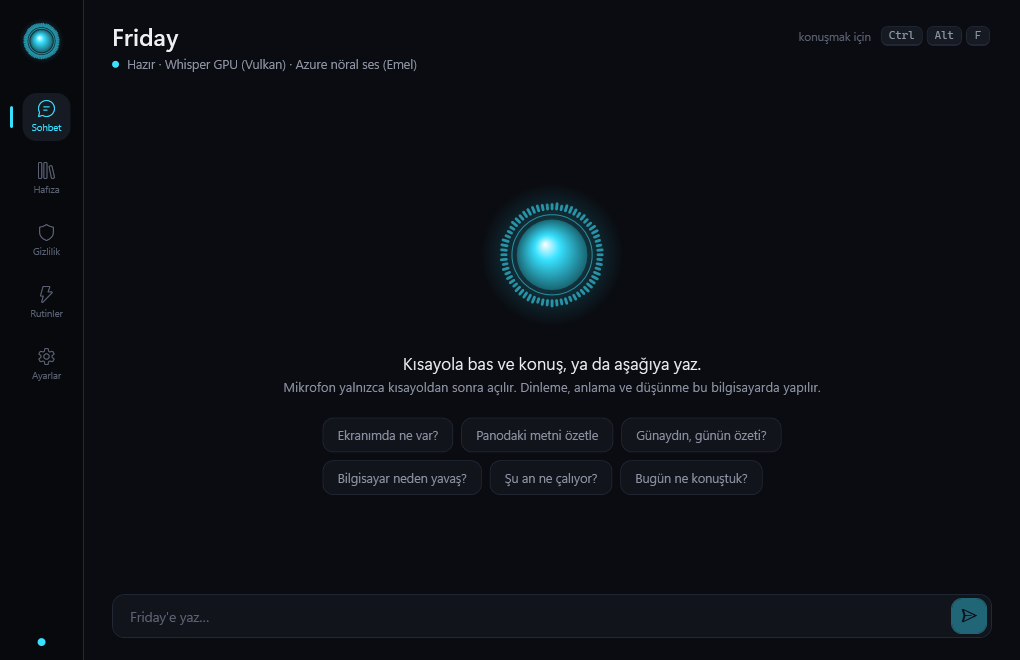
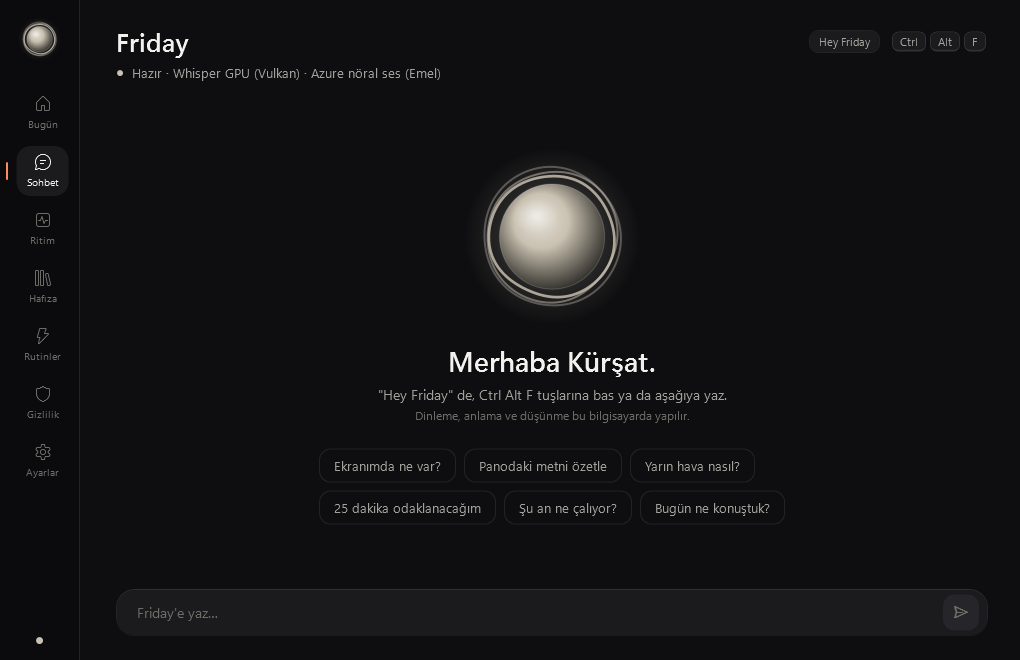
Document the new features and add a release script

diff --git a/README.md b/README.md
@@ -1,6 +1,6 @@
 # Friday
 
-Friday, Windows için Türkçe konuşan kişisel bir sesli asistan. **"Hey Jarvis"** deyince ya da kısayola basınca dinlemeye başlar, sen susunca durur. Uyandırma kelimesi, konuşma tanıma, anlama, düşünme ve konuşma tamamen bilgisayarında çalışır; API anahtarı, abonelik ya da internet gerekmez. Boşta beklerken toplam ~60 MB RAM ve tek çekirdeğin ~%2'sini kullanır.
+Friday, Windows için Türkçe konuşan kişisel bir sesli asistan. **"Hey Friday"** deyince ya da kısayola basınca dinlemeye başlar, sen susunca durur. Uyandırma kelimesi, konuşma tanıma, anlama, düşünme ve konuşma tamamen bilgisayarında çalışır; API anahtarı, abonelik ya da internet gerekmez. Boşta beklerken toplam ~60 MB RAM ve tek çekirdeğin ~%2'sini kullanır.
 
 ![Friday konuşurken](docs/images/hud-speaking.png)
 
@@ -8,7 +8,12 @@ Friday, Windows için Türkçe konuşan kişisel bir sesli asistan. **"Hey Jarvi
 
 | | |
 |---|---|
-| **"Hey Jarvis"** | Elin klavyede değilken seslenmen yeterli. Kelime [openWakeWord](https://github.com/dscripka/openWakeWord) ile bilgisayarında, işlemcide aranır; ses kaydedilmez. Ayarlardan kapatılır. |
+| **"Hey Friday"** | Elin klavyede değilken seslenmen yeterli. Model Friday için bu bilgisayarda eğitildi ve işlemcide çalışır; ses kaydedilmez. Türkçe aksanla ("Hey Fraydey") da tanır. Ayarlardan kapatılır. |
+| **Bugün ekranı** | Panel açılınca günün saatine göre selam, hava, yaklaşan hatırlatmalar ve tarihler, son notlar ve ritim özeti. İlk açılışta kısa bir tanışma: adın, şehrin, istersen başka bir yapay zekânın hafızası. |
+| **Hatırlatıcı** | "Yarın 9'da doktoru hatırlat", "akşam 8'de ilacımı hatırlat", "pazartesi 10:30'da toplantıyı hatırlat". Friday kapansa da kaybolmaz; kapalıyken kaçırılanları açılışta söyler. "Hatırlatmalarım neler?", "doktor hatırlatmasını iptal et". |
+| **Sesli notlar** | "Not al: süt ve ekmek", "notlarımı oku". Notlar D:\Friday\data\notes.md'de, Not Defteri'yle de açılır. |
+| **Hesap ve birimler** | "345 çarpı 12 kaç", "200'ün yüzde 18'i", "5 mil kaç kilometre", "30 derece kaç fahrenheit". Dil modeline gitmez, yanılmaz. |
+| **Gün sayacı** | "Yılbaşına kaç gün kaldı", "29 Ekim'e kaç gün var", "doğum günüme kaç gün kaldı" (hafızadan bulur). |
 | **Ekranını görür** | "Bu hata ne?", "Ekranımda ne var?" deyince aktif pencerenin görüntüsünü alır ve Gemma 4'ün görme yeteneğiyle bilgisayarında yorumlar. Görüntü diske yazılmaz. |
 | **Pano büyüsü** | Bir metni kopyala, "özetle", "İngilizceye çevir", "yazımını düzelt" ya da "resmileştir" de. Sonuç panoya geri konur; Ctrl+V ile yapıştırırsın. |
 | **Ritim koçu** | Kaç dakikadır aralıksız çalıştığını bilir; yazarken değil bir duraksamada, tam ekran oyun ya da film açık değilken mola önerir. Her seferinde başka bir öneri gelir: 20 saniye sayarak göz molası, rehberli esneme, su (içtiklerini sayar), uzun oturumda yürüyüş, gece geç saatte günü kapatma. "Nefes egzersizi" deyince seni sesli yönlendirir, "25 dakika odaklanacağım" deyince odak oturumu açar. |
@@ -18,13 +23,13 @@ Friday, Windows için Türkçe konuşan kişisel bir sesli asistan. **"Hey Jarvi
 | **Hafızanı taşı** | ChatGPT'nin, Claude'un ya da Gemini'nin hafıza listesini .txt, .md ya da .json olarak içe aktar (ya da yapıştır); önizlemede seç, Friday zaten bildiklerini işaretler. Tersine, Friday'in hafızasını tek tıkla başka bir yapay zekâya yapıştırılacak bir mesaja ya da Markdown dosyasına çevir. |
 | **Dosya radarı** | "Dün indirdiğim PDF'i bul", "içinde fatura geçen Excel'i aç". Windows Arama dizinini kullanır. |
 | **Gizlilik defteri** | Mikrofonun ne zaman ve ne kadar açık kaldığı, neyin bilgisayarda kaldığı ve neyin dışarı çıktığı zaman çizelgesinde görünür. "Seni dinlemiyorum" iddiası denetlenebilir. |
-| **Rutinler** | "Çalışma modunu aç" deyince uygulamalar ve siteler açılır. "Günaydın" deyince tarih, hava, zamanlayıcılar ve yaklaşan hatırlatmalar okunur. |
+| **Rutinler** | "Çalışma modunu aç" deyince uygulamalar ve siteler açılır. "Günaydın" deyince tarih, hava ve yaklaşan hatırlatmalar okunur. "Toplantı modu" 45 dakikalık odak açar, "iyi geceler" günün özetini söyler. |
 | **"Bilgisayar neden yavaş?"** | İşlemci, bellek, disk ve ekran kartını ölçer; en çok kaynak yiyen uygulamaları söyler. |
-| **"Şu an ne çalıyor?"** | Spotify ya da tarayıcıdaki YouTube'da çalan şarkıyı Windows'tan okur; müziği durdurur ya da geçer. |
+| **"Şu an ne çalıyor?"** | Spotify ya da tarayıcıdaki YouTube'da çalan şarkıyı Windows'tan okur; müziği durdurur ya da geçer. "Sesi yüzde 30 yap" ile sesi tam ayarlar. |
 | **"Bugün ne konuştuk?"** | Günlük sohbet geçmişini bilgisayarında tutar ve özetler. |
 | **LinguaFlow bağlantısı** | "Bu videoyu çevir" deyince [LinguaFlow](https://github.com/kursatcnk/LinguaFlow) açılır ve canlı çeviri başlar. |
 | **Devam sorusu** | Cevaptan sonra mikrofon 4 sn daha açık kalır; tuşa basmadan "peki yarın?" diye sorabilirsin. Ayarlardan kapatılır. |
-| **Kesme** | Friday konuşurken kısayola basarsan ya da "Hey Jarvis" dersen susar ve seni dinlemeye başlar. |
+| **Kesme** | Friday konuşurken kısayola basarsan ya da "Hey Friday" dersen susar ve seni dinlemeye başlar. |
 | **Yazarak sorma** | Konuşamadığın yerde panelden yazabilirsin. |
 
 Tehlikeli işler bilerek yok: Friday dosya silemez, bilgisayarı kapatamaz, komut çalıştıramaz.
@@ -32,7 +37,7 @@ Tehlikeli işler bilerek yok: Friday dosya silemez, bilgisayarı kapatamaz, komu
 ## Nasıl çalışır?
 
 ```
-"Hey Jarvis"
+"Hey Friday"
 ya da Ctrl+Alt+F ─►  modeller uyuyorsa yüklenmeye başlar (sen konuşurken biter)
                      mikrofon AÇILIR · bip · kapsül belirir
                      │  16 kHz mono ses, yalnızca bellekte
@@ -43,7 +48,7 @@ ya da Ctrl+Alt+F ─►  modeller uyuyorsa yüklenmeye başlar (sen konuşurken 
                 Whisper Large v3 Turbo, GPU (Vulkan)          → "yarın ankara'da hava nasıl"
                      │
                      ▼
-                Gemma 4 (Ollama, yerel) + 18 araç             → hava_durumu(sehir: "Ankara")
+                Gemma 4 (Ollama, yerel) + 29 araç             → hava_durumu(sehir: "Ankara")
                      │   ▲                                       │
                      │   └──── araç sonucu ◄─────────────────────┘
                      ▼
@@ -60,26 +65,33 @@ Her sesli asistan dört parçadan oluşur:
 
 | Parça | Görevi | Friday'de |
 |---|---|---|
-| **Tetikleme** | Ne zaman dinleyeceğini bilmek | "Hey Jarvis" ([openWakeWord](https://github.com/dscripka/openWakeWord), ONNX Runtime, işlemci) ya da genel kısayol (`RegisterHotKey`) |
+| **Tetikleme** | Ne zaman dinleyeceğini bilmek | "Hey Friday" (Friday için eğitilmiş model, [openWakeWord](https://github.com/dscripka/openWakeWord) özellikleri, ONNX Runtime, işlemci) ya da genel kısayol (`RegisterHotKey`) |
 | **Kulak (STT)** | Sesi yazıya çevirmek | [Whisper.net](https://github.com/sandrohanea/whisper.net), Large v3 Turbo, GPU'da ~0,3 sn |
 | **Beyin (LLM)** | Anlamak ve iş yapmak | [Ollama](https://ollama.com) + Gemma 4 E4B, araç çağırma (tool calling) |
 | **Ses (TTS)** | Cevabı okumak | [Piper](https://github.com/rhasspy/piper) + [Türkçe ses](https://huggingface.co/99eren99/piper-turkish-tts), işlemcide anında · isteğe bağlı XTTS v2 ya da Azure |
 
-### "Hey Jarvis" nasıl çalışıyor?
+### "Hey Friday" nasıl çalışıyor?
 
-Uyandırma kelimesi, mikrofonun **her an açık** olmasını gerektirir; bu yüzden Windows'un mikrofon simgesi görünür. Ses 80 ms'lik parçalar halinde yalnızca bellekte işlenip hemen atılır, diske yazılmaz, hiçbir yere gönderilmez. Üç küçük model (toplam 3,6 MB) zinciri her parçayı puanlar: mel spektrogram → konuşma gömmesi → "hey jarvis" sınıflandırıcı.
+Uyandırma kelimesi, mikrofonun **her an açık** olmasını gerektirir; bu yüzden Windows'un mikrofon simgesi görünür. Ses 80 ms'lik parçalar halinde yalnızca bellekte işlenip hemen atılır, diske yazılmaz, hiçbir yere gönderilmez. Üç küçük model zinciri her parçayı puanlar: mel spektrogram → konuşma gömmesi (openWakeWord) → Friday'in kendi "hey friday" sınıflandırıcısı.
 
-- **Yanlış uyanmaya karşı.** Gerçek "Hey Jarvis" art arda 2–9 parça boyunca yüksek puan alır; benzer sesli cümlelerin çoğu tek parçada kalır. Friday iki parça şartı arar (gecikmeye 80 ms ekler).
+- **Yanlış uyanmaya karşı.** Gerçek "Hey Friday" art arda 2–9 parça boyunca yüksek puan alır; benzer sesli cümlelerin çoğu tek parçada kalır. Friday iki parça şartı arar (gecikmeye 80 ms ekler).
 - **Sessizlikte bedava.** Oda 1,3 sn'den uzun sessizse modeller hiç çalışmaz; arabellekler sessizliğin önceden hesaplanmış karşılığıyla kaydırılır. Ses gelince ilk parçada tam işlemeye dönülür.
 - **Ölçüm.** Konuşma varken 80 ms'lik parça başına ~0,7–1,1 ms işlemci; boşta Friday'in tamamı tek çekirdeğin ~%1,8'i.
-- **Türkçe aksan.** "Hey Carvis" gibi söylemek yeterli. Türkçe J ile ("jurnal"daki gibi) söylenirse tanımaz.
 - **Kapatmak için** `WakeWord` ayarını boş bırak; mikrofon o zaman yalnızca kısayoldan sonra açılır ve simge de görünmez. Mikrofon bir soru için açıkken kapsülde kırmızı **"Mikrofon açık"** göstergesi yanar; her açılış gizlilik defterine yazılır.
 
-Hazır "hey jarvis" modeli openWakeWord projesine aittir ve ticari olmayan kullanım lisanslıdır (CC BY-NC-SA 4.0).
+**Friday için eğitildi.** Hazır bir "Hey Friday" modeli yok; `training\train-wakeword.ps1` onu bu bilgisayarda, tamamen D:\Friday\training altında eğitir (RTX 5070 Ti'de ~1 saat, ~330 MB indirme):
+
+- **Olumlu örnekler:** Piper'ın çok konuşmacılı İngilizce sesleri (1.013 farklı konuşmacı) "Hey Friday" der; Türkçe Piper sesleri "Hey Fraydey" der. Her kayıt oda yankısı, mikrofon bant genişliği, gürültü, uğultu ve arka plan konuşmasıyla bozulur.
+- **Olumsuz örnekler:** benzer sesler ("hey Fred", "it's Friday", "Hey Ferhat", "Cuma günü"…), binlerce Türkçe ve İngilizce cümle, saf gürültü ve openWakeWord'ün gerçek ses doğrulama verisinin %70'i. "Hey Fri…" gibi yarım kalan kelime de olumsuz sayılır.
+- **Ölçüm** (eğitimde hiç kullanılmamış konuşmacılar ve 3,2 saatlik gerçek ses, iki parça şartıyla): eşik 0.50'te **yakalama %96**, **saatte 0,31 yanlış uyanma**.
+- **Gerçekçi sınama** (eğitimde hiç duyulmamış Windows sesleri, Friday'in kendi çalışma hattında): bitişik söylenen "Hey Friday"lerin ve Türkçe aksanlı "Hey Fraydey"lerin hepsi yakalandı. "See you on Friday", "Thank god it's Friday", "Hey Jarvis", "Hey Ferhat", "Cuma günü" gibi tuzak cümlelerin hiçbiri normal seste uyandırmadı; çok kısık seste "Hey Fred" bir kez uyandırdı. "Hey, … Friday" diye araya uzun bir duraklama konunca kaçırabilir; bitişik söylemek yeterli.
+- **İlk sürümden ders:** ilk model "see you on Friday"da da uyanıyordu ("Friday"i tek başına yeterli sanmıştı). Yüzlerce "Friday" bağlamı ve "Hey Fred/Frida/Frank…" gibi tuzaklar iki kat ağırlıkla eklenip ezber dropout'la azaltılınca düzeldi.
+
+Sınıflandırıcı openWakeWord'ün özellik çıkarıcılarıyla (Apache 2.0) çalışır; eğitimde kullanılan doğrulama verisi ticari olmayan kullanım lisanslı olduğundan model de kişisel kullanım içindir.
 
 ### Araç çağırma (beyin nasıl iş yapıyor?)
 
-Dil modeline 18 aracın listesi JSON şeması olarak verilir. "Not defterini aç" duyunca metin yerine `uygulama_ac(ad: "not defteri")` üretir; Friday aracı çalıştırır, sonucu modele verir, model "Açtım." der. Gemma 4, düşünme adımı kapalıyken aracı çağırmak yerine "aracı kullanacağım" diye anlatıyor. Bu yüzden kısa bir düşünme adımı açık; kısa sorulara ~0,5 sn ekliyor ve düşünce metni seslendirilmiyor.
+Dil modeline 29 aracın listesi JSON şeması olarak verilir. "Not defterini aç" duyunca metin yerine `uygulama_ac(ad: "not defteri")` üretir; Friday aracı çalıştırır, sonucu modele verir, model "Açtım." der. Gemma 4, düşünme adımı kapalıyken aracı çağırmak yerine "aracı kullanacağım" diye anlatıyor. Bu yüzden kısa bir düşünme adımı açık; kısa sorulara ~0,5 sn ekliyor ve düşünce metni seslendirilmiyor.
 
 ## Hız
 
@@ -96,6 +108,7 @@ Günlük komutların çoğu kalıptır ve dil modeline hiç gitmez: saat ve tari
 | "Bugün hava nasıl?" | 4,1 sn | 0,1 sn |
 | "Dolar kaç lira?" | 9 sn'ye kadar | 0,2–0,5 sn |
 | "Bana kısa bir espri yap." | 2,3 sn | 0,3 sn (model hazırken) |
+| "Yarın 9'da doktoru hatırlat" · "345 çarpı 12" · "yılbaşına kaç gün kaldı" | modele gidiyordu | 0,0–0,1 sn |
 
 ## Bellek ve ekran kartı
 
@@ -106,7 +119,7 @@ Friday boşta **toplam ~60 MB RAM ve 0 GB VRAM**, konuşurken ~3,5 GB RAM ve ~4 
 - **Halka animasyonu** panel öndeyken saniyede 15 kare nefes alır, arka plandayken hiç çizilmez.
 
 - **Görme modülü ayrı.** Sohbet, Gemma 4'ün görme modülü olmayan varyantıyla (`friday-text`) yapılır: 4,7 GB yerine 3,5 GB. Aynı model dosyasını paylaşır, diskte ek yer kaplamaz ve ilk açılışta otomatik oluşturulur. Görme modülü yalnızca "ekrana bak" denince yüklenir ve iş bitince boşaltılır.
-- **Ön ısıtma.** "Hey Jarvis" duyulunca ya da kısayola basınca modeller hemen yüklenmeye başlar. Yükleme (~3 sn) sen konuşurken biter, bu yüzden uyandırma neredeyse hissedilmez.
+- **Ön ısıtma.** "Hey Friday" duyulunca ya da kısayola basınca modeller hemen yüklenmeye başlar. Yükleme (~3 sn) sen konuşurken biter, bu yüzden uyandırma neredeyse hissedilmez.
 - **Ses GPU kullanmaz.** Piper işlemcide çalışır (bir cümle ~0,03 sn).
 - **Talimat önbelleği korunur.** Sistem talimatında saat değil yalnızca tarih var; böylece Ollama ~2.000 belirteçlik talimatı her soruda yeniden işlemez.
 
@@ -136,10 +149,14 @@ Yabancı adlar Türkçe sesle yanlış okunmasın diye seslendirmeden önce okun
 
 ## Kurulum
 
+**Hazır sürüm:** [Releases](https://github.com/kursatcnk/Friday/releases) sayfasından `Friday-…-win-x64.zip`'i indir, D: sürücüsünde bir klasöre aç, `setup.ps1`'i çalıştır, sonra `app\Friday.exe`'yi aç. .NET kurmana gerek yok.
+
+**Kaynaktan:**
+
 Gereksinimler: Windows 10/11 x64, [.NET 10 SDK](https://dotnet.microsoft.com/download/dotnet/10.0), en az 8 GB VRAM'li bir GPU önerilir (RTX 3070'te test edildi).
 
 ```powershell
-.\setup.ps1   # Ollama, Piper, Türkçe ses, "Hey Jarvis" ve Gemma 4'ü D:\Friday altına indirir (~7 GB, tek seferlik)
+.\setup.ps1   # Ollama, Piper, Türkçe ses, "Hey Friday" ve Gemma 4'ü D:\Friday altına indirir (~7 GB, tek seferlik)
 .\build.ps1   # derleme + testler
 .\run.ps1     # Friday'i başlatır
 
@@ -151,7 +168,7 @@ Gereksinimler: Windows 10/11 x64, [.NET 10 SDK](https://dotnet.microsoft.com/dow
 | Klasör | İçerik |
 |---|---|
 | `D:\Friday\tools` | Ollama ve Piper (taşınabilir) |
-| `D:\Friday\models` | Gemma 4 (~6 GB), Türkçe Piper sesi, "Hey Jarvis" modelleri (`wakeword\`) |
+| `D:\Friday\models` | Gemma 4 (~6 GB), Türkçe Piper sesi, "Hey Friday" modelleri (`wakeword\`) |
 | `D:\LinguaFlowModels` | Whisper, LinguaFlow ile paylaşılır (yoksa `D:\Friday\models\whisper`) |
 | `D:\Friday\data` | `settings.json`, `memory.json`, gizlilik defteri (`ledger\`), sohbet geçmişi (`history\`), hata günlüğü (`logs\`, 14 gün) |
 | `D:\CodexCache\Friday` | .NET SDK ev klasörü, NuGet paketleri, NuGet indirme önbelleği ve derlemenin geçici dosyaları |
@@ -159,11 +176,12 @@ Gereksinimler: Windows 10/11 x64, [.NET 10 SDK](https://dotnet.microsoft.com/dow
 ## Kullanım
 
 1. `.\run.ps1` ile başlat; ~8 sn sonra durum **Hazır** olur.
-2. **"Hey Jarvis"** de ya da **Ctrl+Alt+F**'e bas, bipten sonra konuş ve sus. Bu kısayol başka bir uygulamadaysa Friday sırayla Ctrl+Alt+J, Ctrl+Shift+Space ve Win+Shift+F'yi dener ve hangisini kullandığını panelin sağ üstünde gösterir.
+2. **"Hey Friday"** de ya da **Ctrl+Alt+F**'e bas, bipten sonra konuş ve sus. Bu kısayol başka bir uygulamadaysa Friday sırayla Ctrl+Alt+J, Ctrl+Shift+Space ve Win+Shift+F'yi dener ve hangisini kullandığını panelin sağ üstünde gösterir.
 3. Ekranın altında cam bir kapsül belirir. Halkanın rengi durumu gösterir: **kırmızı** dinliyor, **mor** düşünüyor, **yeşil** konuşuyor. Kapsül tıklamaları geçirir, odağı çalmaz ve ekran görüntülerine girmez.
 4. Pencereyi kapatınca (ya da tepsi simgesi → **Çıkış**) Friday tamamen kapanır: başlattığı Ollama, llama-server, Piper ve XTTS süreçleri kapatılır, kapanmayan varsa 5 sn içinde zorla sonlandırılır, D:\Friday\tools altından çalışan sahipsiz bir süreç kalmışsa o da kapatılır ve Friday'in kendi süreci kesin olarak biter; RAM ve VRAM'in tamamı geri döner. Friday Görev Yöneticisi'nden sonlandırılsa ya da çökse bile bu süreçler açık kalmaz, bir sonraki açılışta da önceki oturumdan kalan bir şey varsa temizlenir. Kısayolun çalışmaya devam etmesi için pencereyi kapatma, simge durumuna küçült. Friday zaten açıkken yeniden başlatırsan ikinci bir kopya açılmaz; çalışan Friday'in paneli öne gelir.
 5. Beklenmeyen bir hata Friday'i kapatmaz; ayrıntısı `D:\Friday\data\logs` altındaki günlüğe yazılır. Ollama kapanırsa bir sonraki soruda kendiliğinden yeniden başlatılır.
 
+![Bugün](docs/images/panel-today.png)
 ![Sohbet](docs/images/panel-chat.png)
 ![Ritim](docs/images/panel-rhythm.png)
 ![Hafıza](docs/images/panel-memory.png)
@@ -178,7 +196,7 @@ Panelin **Ayarlar** bölümünden ya da `D:\Friday\data\settings.json` dosyasın
 | `UserName` | boş | Sana nasıl hitap edeceği |
 | `Personality` | `esprili` | `esprili`, `sade` ya da `resmi` |
 | `Hotkey` | `Ctrl+Alt+F` | `Ctrl`/`Alt`/`Shift`/`Win` + tuş |
-| `WakeWord` / `WakeWordThreshold` | `hey_jarvis` / `0.5` | Uyandırma kelimesi; boş bırakılırsa kapalı. Yanlışlıkla uyanıyorsa eşiği artır, duymuyorsa azalt |
+| `WakeWord` / `WakeWordThreshold` | `hey_friday` / `0.50` | Uyandırma kelimesi; boş bırakılırsa kapalı. Yanlışlıkla uyanıyorsa eşiği artır, duymuyorsa azalt |
 | `FollowUpSeconds` | `4` | Cevaptan sonra devam sorusu bekleme süresi; `0` kapatır |
 | `SpeechEngine` | `piper` | `piper`, `xtts` ya da `azure` |
 | `PiperNoiseScale` / `PiperNoiseW` / `VoiceRoom` | `0.667` / `0.9` / `0.07` | Ton ve ritim değişkenliği, oda ve sıcaklık |
@@ -197,7 +215,7 @@ Panelin **Ayarlar** bölümünden ya da `D:\Friday\data\settings.json` dosyasın
 
 ## Gizlilik
 
-- "Hey Jarvis" açıkken mikrofon sürekli açıktır ama ses 80 ms'lik parçalar halinde yalnızca bellekte puanlanıp atılır. `WakeWord` boşsa mikrofon yalnızca kısayoldan sonra, bir soru boyunca açılır. Sorunun sesi de bellekte işlenir, diske yazılmaz, hiçbir yere gönderilmez.
+- "Hey Friday" açıkken mikrofon sürekli açıktır ama ses 80 ms'lik parçalar halinde yalnızca bellekte puanlanıp atılır. `WakeWord` boşsa mikrofon yalnızca kısayoldan sonra, bir soru boyunca açılır. Sorunun sesi de bellekte işlenir, diske yazılmaz, hiçbir yere gönderilmez.
 - Konuşma tanıma, dil modeli, ekran yorumlama ve pano işlemleri tamamen yereldir.
 - Ritim koçu yalnızca Windows'un tuttuğu "son klavye/fare kullanımı" zamanını okur; tuşlar, ekran ve pencere içerikleri okunmaz. Moladan önce yalnızca öndeki pencerenin başlığı hatırlanır. Günlük süreler `D:\Friday\data\rhythm` altında, 90 gün tutulur.
 - Dışarı yalnızca şunlar çıkar ve hepsi gizlilik defterine yazılır: Azure açıksa okunacak cevap metni; hava durumu sorulursa şehir adı (Open-Meteo); açmasını istediğin siteler ve aramalar (tarayıcın üzerinden).
@@ -205,11 +223,14 @@ Panelin **Ayarlar** bölümünden ya da `D:\Friday\data\settings.json` dosyasın
 ## Geliştirme
 
 ```
-src/Friday.Core            Saf mantık: konuşma sonu algılama, cümle bölme, sayı ve okunuş çevirisi,
-                           hafıza, gizlilik defteri, sohbet geçmişi, rutinler, dosya arama sorgusu, talimatlar
-src/Friday.Infrastructure  Mikrofon, Whisper, Ollama sunucusu/istemcisi, Azure + Piper ses, 18 araç, asistan döngüsü
-src/Friday.Desktop         Cam kapsül HUD, ses halkası, kontrol paneli, genel kısayol, sistem tepsisi
+src/Friday.Core            Saf mantık: konuşma sonu algılama, hızlı yol kalıpları, Türkçe zaman ve sayı, hesap,
+                           hafıza ve aktarımı, hatırlatma ve notlar, ritim, gizlilik defteri, talimatlar
+src/Friday.Infrastructure  Mikrofon, uyandırma kelimesi, Whisper, Ollama, Azure + Piper ses, 29 araç, ritim koçu, asistan döngüsü
+src/Friday.Desktop         Bugün ekranı, cam kapsül, ses küresi, kontrol paneli, genel kısayol, sistem tepsisi
 tests/Friday.UnitTests     Birim testleri
+training/                  "Hey Friday" uyandırma kelimesi eğitimi (train-wakeword.ps1)
+models/wakeword            Eğitilmiş "Hey Friday" modeli
+release.ps1                İndirilebilir sürümü (zip) hazırlar
 ```
 
 Arayüzü uygulamayı çalıştırmadan örnek verilerle PNG olarak çizmek için:
